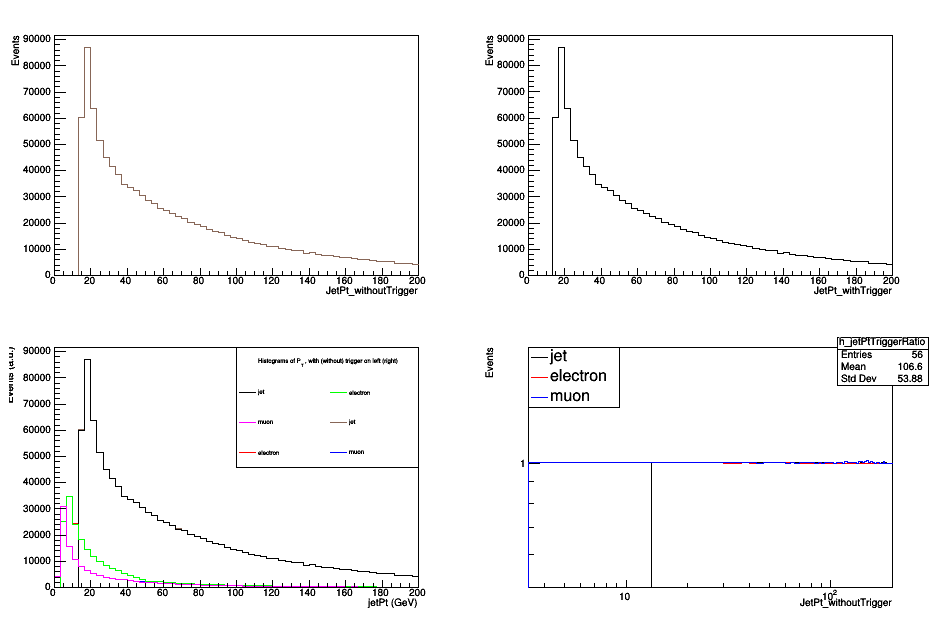
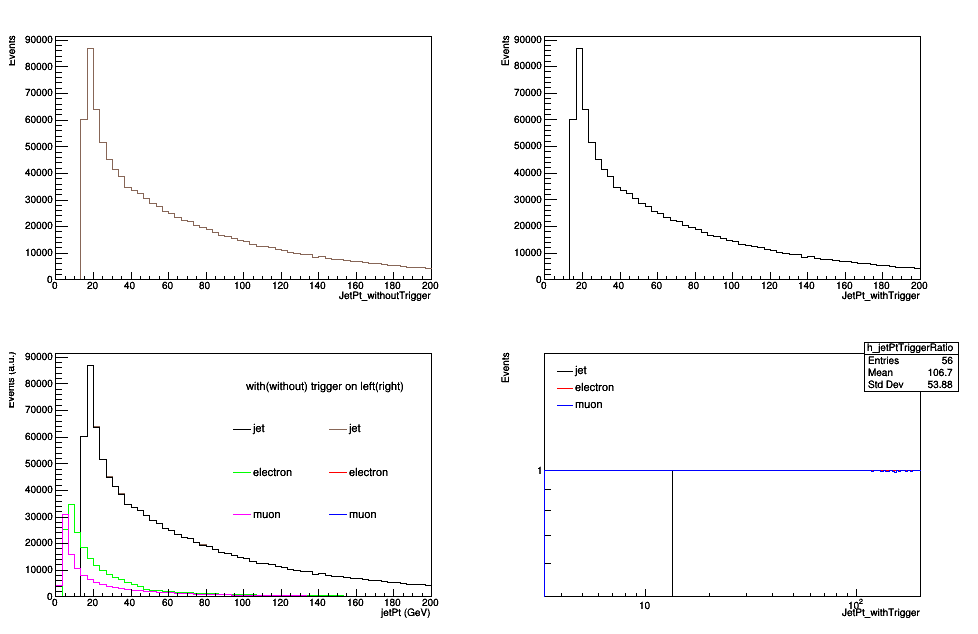
legend looks ok

diff --git a/triggerPathEfficiency.py b/triggerPathEfficiency.py
@@ -4,7 +4,7 @@ from argparse import ArgumentParser, ArgumentDefaultsHelpFormatter
 
 def main():
     #Create canvas
-    triggerCanvas = ROOT.TCanvas('triggerCanvas', 'Canvas of Pt with and without triggers', 950,650)
+    triggerCanvas = ROOT.TCanvas('triggerCanvas', 'Canvas of Pt with and without triggers', 980,660)
     triggerCanvas.Divide(2,2)
 
     #Get histos from file
@@ -60,10 +60,12 @@ def main():
     h_muonPtTriggerRatio.Divide(h_muonPt)
     h_muonPtTriggerRatio.SetLineColor(4)
     h_muonPtTriggerRatio.Draw('same')
-    legg = ROOT.TLegend(0.1, 0.7,0.3, 0.9)
+    legg = ROOT.TLegend(0.12, 0.7,0.3, 0.87)
     legg.AddEntry(h_jetPtTriggerRatio, "jet", "l")
     legg.AddEntry(h_elPtTriggerRatio, "electron", "l")
     legg.AddEntry(h_muonPtTriggerRatio, "muon", "l")
+    ROOT.gStyle.SetLegendTextSize(0.04)
+    legg.SetBorderSize(0)
     legg.Draw()
 
     cv = triggerCanvas.cd(3)
@@ -85,10 +87,11 @@ def main():
     h_elPtT.SetStats(False)
     h_muonPt.SetStats(False)
     h_muonPtT.SetStats(False)
-    legend = ROOT.TLegend(0.5, 0.5,0.9, 0.9)
+    legend = ROOT.TLegend(0.47, 0.3,0.88, 0.86)
     legend.SetNColumns(2)
-    gStyle.SetLegendFont(50)
-    legend.SetHeader("Histograms of P_{T}, with (without) trigger on left (right)", "C")
+    ROOT.gStyle.SetLegendTextSize(0.04)
+    legend.SetBorderSize(0)
+    legend.SetHeader("with(without) trigger on left(right)", "C")
     en1=legend.AddEntry(h_jetPtT, "jet", "l")
     en2=legend.AddEntry(h_jetPt, "jet", "l")
     en3=legend.AddEntry(h_elPtT, "electron", "l")

diff --git a/histoMaker.py b/histoMaker.py
@@ -194,8 +194,8 @@ onefile = [files[0]]
 print("Opening a single file: " + str(onefile) )
 
 p99=PostProcessor(".",
-                  #files,
-                  onefile,
+                  files,
+                  #onefile,
                   cut="nJet > 3 && nFatJet > 0",
                   modules=[HistogramMaker()],
                   jsonInput=None,
